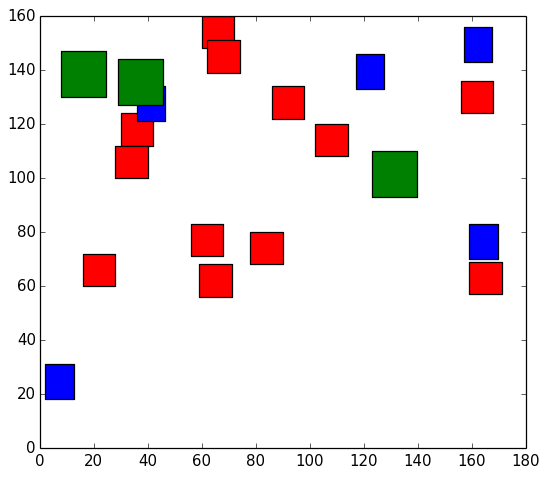
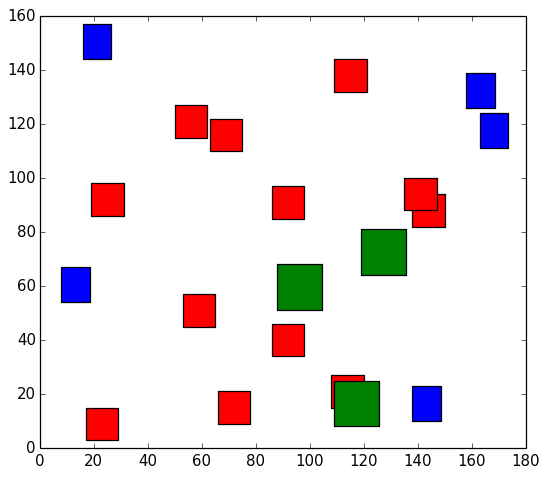
overlap try

diff --git a/amstelhaegen.py b/amstelhaegen.py
@@ -20,14 +20,35 @@ def drawBuilding(building, x, y, color):
 	    )
 	)
 
+def overlap(building1, building2):
+	xOverlap = True
+	yOverlap = True
+
+	if (building1.left > building2.right) or (building1.right < building2.left):
+		xOverlap = False
+
+	if (building1.top < building2.bottom) or (building1.bottom > building2.top):
+		xOverlap = False
+
+	return xOverlap and yOverlap
+
 if __name__ == "__main__":
 	fig1 = plt.figure()
 	ax1 = fig1.add_subplot(111, aspect='equal')
 
+	buildings = []
+
 	for i in range(12):
 		xrandom = random.randint(0, 170)
 		yrandom = random.randint(0, 150)
-		drawBuilding(classes.house, xrandom, yrandom, "red")
+		buildings.append([xrandom, yrandom])
+		overlap(buildings[0], )
+		for building in buildings:
+
+			while (overlap(building, building[building]) = True)
+			xrandom = random.randint(0, 170)
+			yrandom = random.randint(0, 150)
+			drawBuilding(classes.house, xrandom, yrandom, "red")
 
 	for i in range(5):
 		xrandom = random.randint(0, 170)

diff --git a/classes.py b/classes.py
@@ -1,7 +1,6 @@
 
 
 
-
 class house:
 
 	length = 12
@@ -11,6 +10,10 @@ class house:
 
 	def __init__(self, x, y):
 		self.location = (x, y)
+		self.left = x
+		self.right = x + width
+		self.bottom = y
+		self.top = y + length
 
 	def score(self, distanceNeighbour):
 		self.freeSpace = distanceNeighbour
